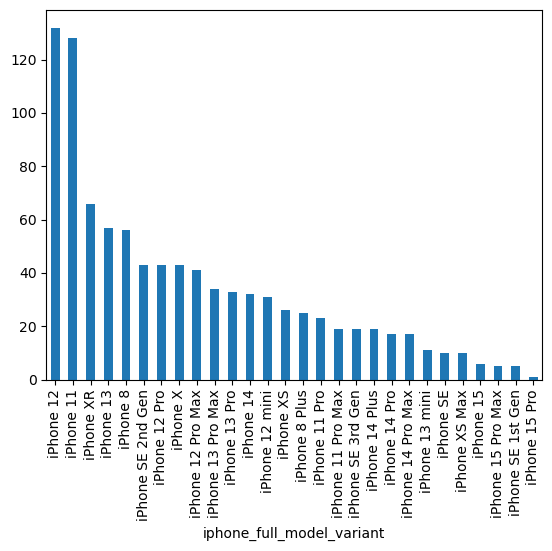
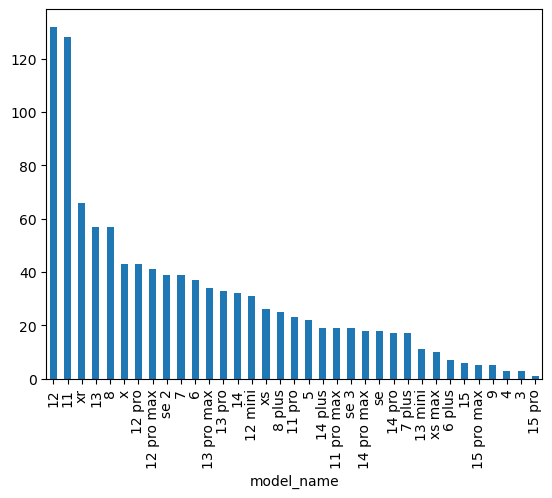
doc:added to demo #2

Changed region(s): [[0.0, 0.0301, 0.9855, 0.994]]

diff --git a/_posts/2025-07-11-iPhone-Price-Prediction-with-eBay-Data.md b/_posts/2025-07-11-iPhone-Price-Prediction-with-eBay-Data.md
@@ -17,9 +17,13 @@ Part 2 of [Examining iPhone Listings from eBay in Excel](https://michael0k.githu
 
 ## Data Source
 
-The dataset `iphone_ebay.csv` contains scraped listings from eBay, including the product name, listed price, and condition.
+The dataset `iphone_ebay.csv` contains scraped listings from eBay, including the product name, listed price, and condition. Below is a copy of the dataset that I utilized in this demonstration.
 
-[iphone_ebay.csv copy](https://www.dropbox.com/scl/fi/ziqcytqsso71fpywvfitx/iphone_ebay_06_2025.csv?rlkey=3vnr6ruaczuvmmr8c6x00r6ix&st=0tkj3g0q&dl=0){: .btn .btn--primary}
+[**iphone_ebay.csv**](https://www.dropbox.com/scl/fi/ziqcytqsso71fpywvfitx/iphone_ebay_06_2025.csv?rlkey=3vnr6ruaczuvmmr8c6x00r6ix&st=0tkj3g0q&dl=0){: .btn .btn--info}
+
+Here is a direct link to the kaggle page for this dataset :  [Dataset on Kaggle](https://www.kaggle.com/datasets/kashishparmar02/ultimateapplesamsungecom-dataset){: .btn .btn--info}
+
+
 
 ## Objective
 
@@ -54,7 +58,7 @@ More specifically, we will create a feature `iphone_full_model_variant` which si
 
 Below you can access a jupyter notebook file which contains the source code that will be discussed below. This is demonstrate the reproducibility of our findings.
 
-[Jupyter Lab File](https://github.com/michael0k/projects-and-demos/blob/73be284fae08fa3b4a726d77ae52bae37a6df3dc/iPhone_eBay_Predict_Modeling.ipynb){: .btn .btn--primary}
+[Jupyter Lab File](https://github.com/michael0k/projects-and-demos/blob/272f82843054a3ecad0419649de2f403c39a509a/iPhone_eBay_Predict_Modeling.ipynb){: .btn .btn--info}
 
 
 ## Required Libraries
@@ -73,6 +77,9 @@ Below you can access a jupyter notebook file which contains the source code that
 This demonstration aims to predict the price of iPhones listed on eBay based on their model, variant (e.g. Pro & Pro Max), and condition. By leveraging machine learning techniques, we aim to understand the key factors influencing iPhone prices in the secondary market.
 
 
+
+## 1. Initializing the Dataframe
+
 ```python
 import pandas as pd
 import numpy as np
@@ -84,7 +91,7 @@ from sklearn.linear_model import LinearRegression
 from sklearn.metrics import mean_absolute_error, mean_squared_error, r2_score
 
 
-# Load the dataset
+
 try:
     df = pd.read_csv('archive/iphone_ebay.csv')
     print("\nFirst 5 rows of the dataset:")
@@ -95,7 +102,7 @@ try:
     print(df.describe())
 except FileNotFoundError:
     print("Error: 'iphone_ebay.csv' not found. Please ensure the file is in the correct directory.")
-    exit() # Exit if the file isn't found
+    exit()
 
 ```
 
@@ -140,7 +147,7 @@ except FileNotFoundError:
 # Check for missing values and duplicates
 print(f"\nNull values before cleaning:\n{df.isnull().sum()}")
 print(f"\nNumber of duplicate rows: {df.duplicated().sum()}")
-# Drop duplicate rows if any
+
 df.drop_duplicates(inplace=True)
 df.reset_index(drop=True, inplace = True)
 print(f"Number of rows after dropping duplicates: {len(df)}")
@@ -162,13 +169,13 @@ We have 3 features/columns which all contain strings and zero null values.
 > **$\approx$ 62% of our rows have unique listing names, what does that say about the nearly 30% remaining listings ?**
 >
 > 1. Some (different) sellers are using identical listing names
-> 2. Some sellers are relisting their iPhone listings on eBay because they sell numerous iPhones through out the year
+> 2. Some sellers are relisting their iPhone listings on eBay because they sell numerous iPhones throughout the year
 > 3. Some sellers relist their individual iPhone until they successfully make a sale
 >
 > Looking at the first 10 rows of data we can see at least one price range in our `price` feature in dataframe `df`.
 {: .notice -- primary}
 
-## Data Cleaning and Feature Engineering 
+## 2. Data Cleaning and Feature Engineering 
 
 This part focuses on transforming raw data into usable features for the model, including cleaning the price, encoding the condition, and extracting iPhone model variants.
 
@@ -198,9 +205,9 @@ def clean_price(price_str):
     return np.nan 
 
 df['price_cleaned'] = df['price'].apply(clean_price)
-
 df.dropna(subset=['price_cleaned'], inplace=True)
 df.reset_index(drop=True, inplace = True) 
+
 print(f"Rows after cleaning 'price' and dropping NaNs: {len(df)}")
 df.head()
 ```
@@ -300,10 +307,12 @@ condition_mapping = {
     'Excellent - Refurbished': 5,
     'Brand New': 6
 }
+
 df['condition_encoded'] = df['condition'].map(condition_mapping)
 df.dropna(subset=['condition_encoded'], inplace=True)
 df.reset_index(drop = True, inplace = True) 
 df['condition_encoded'] = df['condition_encoded'].astype(int) 
+
 print(f"Rows left after encoding 'condition' and dropping NaNs: {len(df)}")
 
 ```
@@ -323,7 +332,7 @@ Here comes our ugliest block of code so far. Below we create the function `extra
 ```python
 def extract_model_name(name):
     name_lower = name.lower()
-    model_match = re.search(r'(?<=iphone)\s*(xr|xs\smax|xs|x|se\s*[2-3]|se)|(([1][1-5]|[3-9])\s(plus|pro\smax|pro|mini)?)',name_lower)
+    model_match = re.search(r'(?<=iphone)\s*(xr|xs\smax|xs|x|se\s*[2-3]|se)|(([1][1-5]|[3-9])\s*(plus|pro\smax|pro|mini)?)',name_lower)
     model = model_match.group() if model_match else 'Unknown'
     return model
 
@@ -331,7 +340,7 @@ df['model_name'] = df['name'].apply(lambda x: pd.Series(extract_model_name(x).st
 df['model_name'] = df['model_name'].replace('Unknown',np.nan)
 df.dropna(subset='model_name' , axis = 0) 
 
-df_processed = pd.get_dummies(df, columns = ['model_name'] , prefix='iPhone', drop_first = True) 
+df_processed = pd.get_dummies(df, columns = ['model_name'] , prefix='iPhone', drop_first = False) 
 
 print("\nSample of DataFrame after feature engineering:")
 
@@ -356,16 +365,16 @@ print(df_processed[sample_cols].head())
 r'(?<=iphone)\s*(xr|xs\smax|xs|x|se\s*[2-3]|se)|(([1][1-5]|[3-9])\s(plus|pro\smax|pro|mini)?)'
 ```
 
-**Big picture:** We look for the substring `'iphone'` and then search for the proceeding indicators of the various iphone models. We either match with an X* or SE model OR an iphone 1 to iphone 15 and their variants. 
+**Big picture:** We look for the substring `'iphone'` and then search for the proceeding indicators of the various iPhone models. We either match with an X or SE model. If we find neither, then we look for indicators of other iPhone models (3,4,$\dots$, 15) (i.e. the iphone 3 to iphone 15 and their variants).  
 
 
 `(?<=iphone)`
 - this code tells the machine to look for the `'iphone'` substring as a "prefix" to our upcoming matches but to *exclude* `'iphone'` from our matches
 
 `(xr|xs\smax|xs|x|se\s*[2-3]|se)|(([1][1-5]|[3-9])`
-1. We look for the various x models , making sure to look for xs max before xs to avoid reductively grouping all xs phones under 'xs'
+1. We parse the listing title for the various iPhone x models , making sure to look for `'xs max'` before `'xs'` to avoid reductively grouping all xs phones under `'xs'`
 2. For SE models, we first look for 2nd or 3rd generation models, any remaining se listings will fall under `'se'`
-3. Or we first look for iphone models 11 to 15 or iphone models 3 - 9 if we still don't have a match
+3. Or we look for iphone models 11 to 15 or iphone models 3 - 9 if we still don't have a match
 
 This leaves us with 1039 known models and 48 unknown models. You can verify this before running the lines that replace 'Unknown' in `df['model_name']`. 
 
@@ -382,57 +391,48 @@ for x in df['model_name']:
 print(f'We have {n_models} known models in our dataframe and {old_models} unknown models in our dataframe.') 
 ```
 
-
 ```python
 df.reset_index(drop = True, inplace = True) 
-```
-
-
-```python
 df['model_name'].value_counts()
 ```
 
-
-
-
     model_name
-    12            127
-    11            127
+    12            132
+    11            128
     xr             66
-    8              59
-    13             54
+    13             57
+    8              57
     x              43
     12 pro         43
     12 pro max     41
     se 2           39
+    7              39
+    6              37
     13 pro max     34
-    7              34
-    14             34
     13 pro         33
+    14             32
     12 mini        31
-    8 plus         27
     xs             26
+    8 plus         25
     11 pro         23
+    5              22
+    14 plus        19
     11 pro max     19
     se 3           19
-    14 plus        19
     14 pro max     18
     se             18
-    7 plus         18
     14 pro         17
-    5              12
-    6              12
+    7 plus         17
     13 mini        11
     xs max         10
-    6 plus          8
+    6 plus          7
     15              6
     15 pro max      5
-    3               4
+    9               5
+    4               3
+    3               3
     15 pro          1
-    4               1
     Name: count, dtype: int64
-
-
 
 
 ```python
@@ -441,14 +441,6 @@ df['model_name'].value_counts().plot.bar()
 ```
 
 
-
-
-    <Axes: xlabel='model_name'>
-
-
-
-
-    
 ![image-center](/assets/images/2025-07-11-iPhone-Price-Prediction-with-eBay-Data/output_15_1.png){: .align-center}
     
 
@@ -460,14 +452,14 @@ model_count = len(df['model_name'].unique())
 print(model_count)
 ```
 
-    35
+    36
 
 
 >***Remark.*** I did not discern between different variants of the iPhone 3-5 as I was originally going to exclude older models entirely. While argueably lazy, very few people are actively seeking such old iPhones on the second hand market. Any model that came before the 'plus' variants will just be grouped under the number in the model name.
-e.g. The iPhone 3Gs would just fall under the iphone_3
+e.g. The iPhone 3Gs would just fall under `iPhone_3`.
 {: .notice--info}
 
-## Exploratory Data Analysis (EDA)
+## 3. Exploratory Data Analysis (EDA)
 
 This section includes various visualizations to understand the distributions and relationships within the cleaned data.
 
@@ -574,6 +566,65 @@ plt.show()
     
 ![image-center](/assets/images/2025-07-11-iPhone-Price-Prediction-with-eBay-Data/output_27_0.png){: .align-center}
     
+Let's examine some of these outlier prices of our various iPhone models. Recall that an outlier is defined as a point that falls above the upper extreme or below the lower extreme in our box plot. The upper and lower extremes can be determined by the following equations. 
+
+$$\begin{align*} &\text{Upper extreme/whisker} = \text{Upper quartile} +  (IQR \cdot 1.5) \\
+&\text{Lower extreme/whisker} = \text{Lower quartile} -  (IQR \cdot 1.5) \end{align*}$$
+
+Where $IQR$ is the interquartile range , the difference between the upper and lower quartiles. 
+
+
+```python
+cols = ['11', '8', 'xr']
+
+for col in cols: 
+    df_bxmodel = df[df['model_name'] == col].copy() 
+    u_quart = np.percentile(df_bxmodel['price_cleaned'], 75)
+    l_quart = np.percentile(df_bxmodel['price_cleaned'], 25)
+    IQR = float(u_quart) - float(l_quart) 
+    u_extreme = u_quart + (1.5 * IQR)
+    l_extreme = l_quart - (1.5 * IQR)
+    outliers = [x for x in df_bxmodel['price_cleaned'] if x > u_extreme or x < l_extreme] 
+    print(f"\nUpper quartile value for the iPhone {col} is: {u_quart}")
+    print(f"\nLower quartile value for the iPhone {col} is: {l_quart}")
+    print(f"\nInterquartile range for the iPhone {col} is: {IQR}") 
+    print(f"\nNumber of outliers for the iPhone {col} is: {len(outliers)}")
+    print("\n ---")
+```
+
+    
+    Upper quartile value for the iPhone 11 is: 279.2375
+    
+    Lower quartile value for the iPhone 11 is: 229.9975
+    
+    Interquartile range for the iPhone 11 is: 49.24000000000001
+    
+    Number of outliers for the iPhone 11 is: 9
+    
+     ---
+    
+    Upper quartile value for the iPhone 8 is: 143.6
+    
+    Lower quartile value for the iPhone 8 is: 109.99
+    
+    Interquartile range for the iPhone 8 is: 33.61
+    
+    Number of outliers for the iPhone 8 is: 4
+    
+     ---
+    
+    Upper quartile value for the iPhone xr is: 219.99
+    
+    Lower quartile value for the iPhone xr is: 184.95
+    
+    Interquartile range for the iPhone xr is: 35.04000000000002
+    
+    Number of outliers for the iPhone xr is: 5
+    
+     ---
+
+
+Here we see that out of the three selected models, the iPhone 11 (base model) has the most price outliers and the largest interquartile range. 
 
 
 ### Visualizing Correlation Data 
@@ -585,7 +636,7 @@ corr_matrix = df_processed[correlation_features].corr()
 
 plt.figure(figsize=(14, 12))
 sns.heatmap(corr_matrix, annot=False, cmap='coolwarm', fmt=".2f", linewidths=.5) # annot=True can make it crowded for many features
-plt.title('Correlation Matrix of Features', fontsize=16)
+plt.title('Correlation Matrix of iPhone Models', fontsize=16)
 plt.xticks(fontsize=8)
 plt.yticks(fontsize=8, rotation=0)
 plt.tight_layout()
@@ -649,6 +700,7 @@ $$\hat{y} = b_0 + b_1 x_1 + b_2 x_2 + \dots b_nx_n$$
 ```python
 # Define independent variables (X) and target variable (y)
 # X includes condition_encoded and all one-hot encoded full_model_variant columns from df_processed
+
 X_columns = ['condition_encoded'] + [col for col in df_processed.columns if col.startswith('iPhone_')]
 X = df_processed[X_columns]
 y = df_processed['price_cleaned']
@@ -679,10 +731,8 @@ Here we will evaluate the performance of our model by calculating key statistica
 
 
 ```python
-# Make predictions on the test set
 y_pred = model.predict(X_test)
 
-# Calculate evaluation metrics
 mae = mean_absolute_error(y_test, y_pred)
 mse = mean_squared_error(y_test, y_pred)
 rmse = np.sqrt(mse)
@@ -701,16 +751,17 @@ print(f"R-squared (R2): {r2:.4f}")
 
 
 
-#### **Mean Absolute Error (MAE):**
+### **Mean Absolute Error (MAE):**
 
 $$\text{MAE} = \frac{1}{n} \sum_{i=1}^{n} |y_i - \hat{y}_i|$$
 
 
-#### **Mean Squared Error (MSE):** 
+### **Mean Squared Error (MSE):** 
+
 $$\text{MSE } = \frac{1}{n} \sum_{i=1}^n (y_i - \hat{y_i})^2  \\ $$   
 
 
-#### **Root Mean Squared Error (RMSE):**
+### **Root Mean Squared Error (RMSE):**
 
 $$\text{RMSE} = \sqrt{\frac{1}{n} \sum_{i=1}^{n} (y_i - \hat{y}_i)^2}$$
 
@@ -722,7 +773,7 @@ $$\text{RMSE} = \sqrt{\frac{1}{n} \sum_{i=1}^{n} (y_i - \hat{y}_i)^2}$$
 * $\hat{y}_i$: The predicted value of the dependent variable for the $i$-th observation, determined by the iPhone model and condition.
 
 
-#### **The coefficient of determination ($R^2$):**
+### **The coefficient of determination ($R^2$):**
 
 $$R^2 = \bigg(1 - \frac{\text{MSE of regression line}}{\text{MSE of the average of the data}} \bigg)$$
 
@@ -732,7 +783,7 @@ $$R^2 = \bigg(1 - \frac{\text{MSE of regression line}}{\text{MSE of the average 
 ```python
 plt.figure(figsize=(10, 6))
 plt.scatter(y_test, y_pred, alpha=0.6)
-plt.plot([y_test.min(), y_test.max()], [y_test.min(), y_test.max()], 'r--', lw=2) # Diagonal line
+plt.plot([y_test.min(), y_test.max()], [y_test.min(), y_test.max()], 'r--', lw=2) # The diagonal 
 plt.title('Actual vs. Predicted iPhone Prices', fontsize=16)
 plt.xlabel('Actual Price ($)', fontsize=12)
 plt.ylabel('Predicted Price ($)', fontsize=12)
@@ -791,7 +842,7 @@ plt.show()
 
 Here we can see that the residuals are mostly scattered around the horizontal line at zero. There doesn't appear to be a significantly non-linear pattern , which likely means that the choice of a linear model (as opposed to a polynomial regression) was a good one. The variance of the errors appears to be constant, the spread of the residuals appears consistent across the domain of predicted prices. Again, this is further evidence that our model is performing decently well. 
 
-## Conclusion 
+## 6. Conclusion 
 
 This demonstration showcased the process of bulding a multi-linear regression model to predict iPhone prices. The model acheived an $R^2$ of $0.6190$ , indicating that it explains a significant portion ($\approx 62 \%$) of the price variance. Meaning that our two chosen features make significant contributions to iPhone prices on the second hand eBay market. The Mean Absolute Error suggests that , on average , predictions are off by $ \approx \$61.$ So while the model performs well relative to the other feature options, I would not use this model for anything other than a demonstration. 
 

diff --git a/_posts/2025-06-05-Examining-iPhone-Listings-on-eBay-in-Excel.md b/_posts/2025-06-05-Examining-iPhone-Listings-on-eBay-in-Excel.md
@@ -27,7 +27,7 @@ comments:
 ### Workbook Overview 
 
 
-[Excel File Link](https://www.dropbox.com/scl/fi/1d8skubpagoes6f1c1l39/iphone_ebay_listings_2025.xlsm?rlkey=avoer36sjmd3x3cf9djw1ai8b&st=n3caw974&dl=0){: .btn .btn--primary}
+[Excel File](https://www.dropbox.com/scl/fi/1d8skubpagoes6f1c1l39/iphone_ebay_listings_2025.xlsm?rlkey=avoer36sjmd3x3cf9djw1ai8b&st=n3caw974&dl=0){: .btn .btn--info}
 
 
 Tab names are in **bold** text. 
